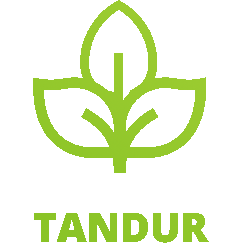
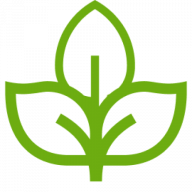
login page
login page

diff --git a/application/views/VLogin.php b/application/views/VLogin.php
@@ -7,7 +7,7 @@
     <meta name="viewport" content="width=device-width, initial-scale=1, shrink-to-fit=no" />
     <meta name="description" content />
     <meta name="author" content />
-    <title>Login | Hotelbiety</title>
+    <title>Login | Tandur</title>
     <link href="<?= base_url(); ?>assets/css/styles.css" rel="stylesheet" />
     <link href="<?= base_url(); ?>assets/css/dataTables.bootstrap4.min.css" rel="stylesheet" crossorigin="anonymous" />
     <link rel="icon" type="image/x-icon" href="<?= base_url(); ?>assets/img/ico.png" />
@@ -50,14 +50,14 @@
                                 <div class="card shadow-lg border-0 rounded-lg ">
                                     <div class="card-header justify-content-center">
                                         <div class="strong form-group d-flex align-items-center justify-content-center mt-4 mb-0">
-                                            Hotelbiety
+											<img style="width:50%; margin-left:-10px" src="<?= base_url(); ?>assets/img/hotelbiety.png"></img>
                                         </div>
-                                        <h3 class="font-weight-light my-4 text-md-center">Login</h3>
+                                        <h3 class="font-weight-light my-4 text-md-center"></h3>
                                         <?= $this->session->flashdata('message'); ?>
                                     </div>
                                     <div class="card-body">
                                         <!-- Login form-->
-                                        <form action="<?= base_url('Login/auth_admin') ?>" method="POST">
+                                        <form action="<?= site_url('login/auth') ?>" method="POST">
                                             <div class="form-group">
                                                 <label class="small mb-1" for="email">Username</label>
                                                 <input type="text" class="form-control py-4" name="username" placeholder="Masukan Username" required />
@@ -68,7 +68,7 @@
                                             </div>
                                             <div class="form-group d-flex align-items-center justify-content-center mt-4 mb-0">
                                                 <a class="small"></a>
-                                                <input type="submit" class="btn btn-primary " value="Login" />
+                                                <input type="submit" class="btn btn-green " value="Login" />
                                             </div>
                                         </form>
                                     </div>
@@ -84,7 +84,7 @@
                 <div class="container-fluid">
                     <div class="form-group d-flex align-items-center justify-content-center mt-5 mb-0">
                         <div class="row ">
-                            <div class="col-md-50 small">Copyright &#xA9; Hotel Biety</div>
+                            <div class="col-md-50 small">Copyright &#xA9; Tandur</div>
                         </div>
                     </div>
                 </div>

diff --git a/application/views/template/header.php b/application/views/template/header.php
@@ -5,7 +5,7 @@
     <meta charset="utf-8" />
     <meta http-equiv="X-UA-Compatible" content="IE=edge" />
     <meta name="viewport" content="width=device-width, initial-scale=1, shrink-to-fit=no" />
-    <meta name="description" content="Hotel Biety Project" />
+    <meta name="description" content="Tandur Project" />
     <meta name="author" content />
     <title><?= $title; ?></title>
     <link rel="icon" type="image/x-icon" href="<?= base_url(); ?>assets/img/ico.png" />
@@ -251,7 +251,7 @@
                     <h5>Apakah anda yakin keluar ? </h5>
                 </div>
                 <div class="modal-footer">
-                    <a href="<?= base_url('Login') ?>" type="button" class="btn btn-danger"><i class="fa fa-sign-out-alt mr-1"></i>Keluar</a>
+                    <a href="<?= site_url('login') ?>" type="button" class="btn btn-danger"><i class="fa fa-sign-out-alt mr-1"></i>Keluar</a>
                     <button type="button" class="btn btn-light" data-dismiss="modal"><i class="fa fa-times mr-1"></i>Tutup</button>
                 </div>
             </div>

diff --git a/application/controllers/AuthController.php b/application/controllers/AuthController.php
@@ -1,0 +1,32 @@
+<?php
+class AuthController extends CI_Controller
+{
+    public function __construct()
+    {
+        parent::__construct();
+    }
+    
+    public function index()
+    {
+        $this->load->view('VLogin');
+    }
+
+    public function auth_admin()
+    {
+        $username = $this->input->post('username');
+        $pass = $this->input->post('password');
+
+        if ($username === "admin" && $pass === "admin") {
+            $session = array(
+                'who' => "admin",
+                'isLogin' => true
+            );
+            $this->session->set_userdata($session);
+
+            redirect('DashboardController');
+        } else {
+            $this->session->set_flashdata('message', '<div class="alert alert-danger" role="alert"> Username / password salah! </div>');
+            redirect('login');
+        }
+    }
+}

diff --git a/application/config/routes.php b/application/config/routes.php
@@ -49,7 +49,7 @@ defined('BASEPATH') OR exit('No direct script access allowed');
 | Examples:	my-controller/index	-> my_controller/index
 |		my-controller/my-method	-> my_controller/my_method
 */
-$route['default_controller'] = 'DashboardController';
+$route['default_controller'] = 'AuthController';
 $route['404_override'] = '';
 $route['translate_uri_dashes'] = FALSE;
 
@@ -88,4 +88,7 @@ $route['master/kecamatan']              = 'KecamatanController';
 $route['master/kecamatan/ajxGetData']   = 'KecamatanController/ajxGetData';
 $route['master/kelurahan']              = 'KelurahanController';
 $route['master/kelurahan/ajxGetData']   = 'KelurahanController/ajxGetData';
+
+$route['login']          = 'AuthController';
+$route['login/auth']     = 'AuthController/auth_admin';
 

diff --git a/application/views/admin/VDashboard.php b/application/views/admin/VDashboard.php
@@ -2,7 +2,7 @@
 <html lang="en">
 
 <body>
-    <header class="page-header page-header-dark bg-gray-500 pb-10">
+    <header class="page-header page-header-dark pb-10" style="background: linear-gradient(90deg, #7CBD1E 0%, #A7D038 100%)">
         <div class="container-fluid">
             <div class="page-header-content pt-4">
                 <div class="row align-items-center justify-content-between">

diff --git a/application/views/template/footer.php b/application/views/template/footer.php
@@ -2,7 +2,7 @@
 <footer class="footer mt-auto footer-light">
     <div class="container-fluid">
         <div class="row">
-            <div class="col-md-6 small">Copyright &#xA9; Hotel Biety</div>
+            <div class="col-md-6 small">Copyright &#xA9; Tandur</div>
         </div>
     </div>
 </footer>
